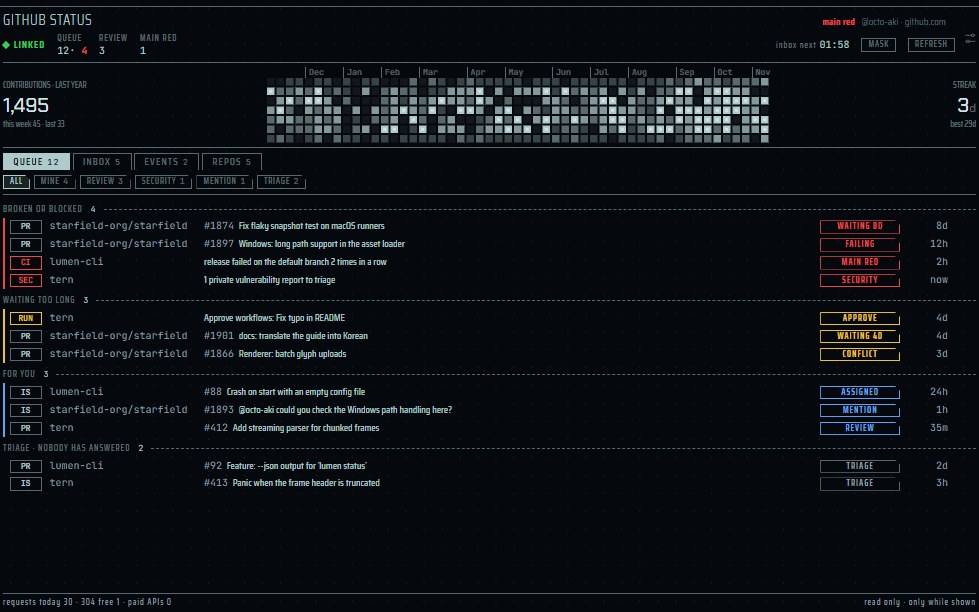
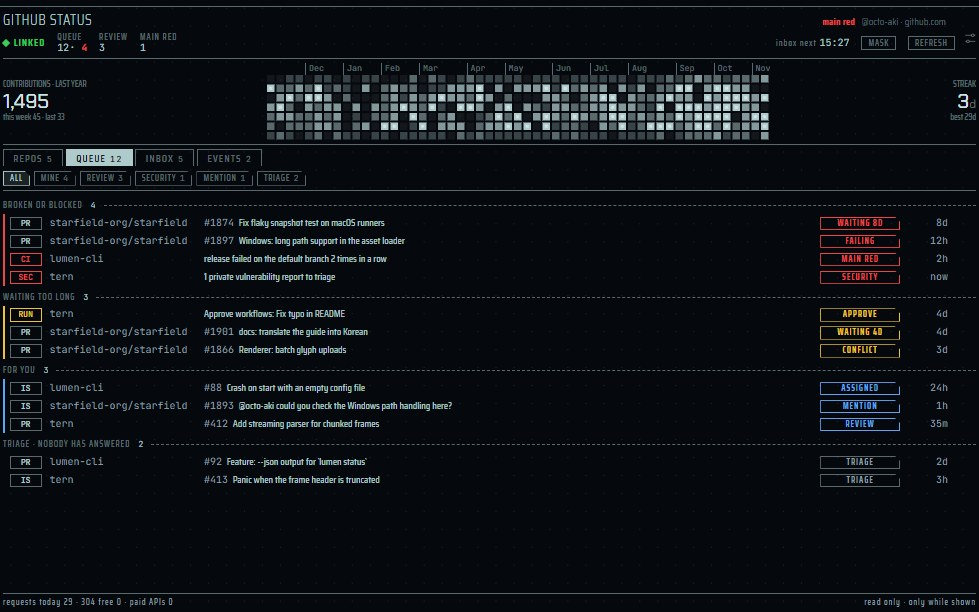
perf(cloud): a new AWS account reads in half the time, REFRESH blinks, and REPOS leads GITHUB STATUS / 新しい AWS アカウントの読み取りを半分の時間に、REFRESH を点滅させ、GITHUB STATUS の先頭を REPOS に
An AWS CLI call costs about 1.2 s here and a new account's first cycle is 253 calls: with two CLI lanes and one bulk lane, RESOURCES' figures took 33 s and the whole cycle six and a half minutes. Four lanes and three bulk ones, with the weekly sweep of other regions behind the counts, bring them to 8 s and about three minutes (measured on the stand-in with the latency scaled). REFRESH was disabled the moment it was pressed, which cut its blink to one beat: it now blinks three beats, then asks, in both panes. GITHUB STATUS shows REPOS as its first tab; QUEUE stays the one a pane opens on. / この PC で AWS CLI は 1 回約 1.2 秒、新しいアカウントの最初の 1 周は 253 回。CLI の枠 2 本・一括 1 本では、RESOURCES の数字まで 33 秒、1 周に 6 分半かかった。枠 4 本・一括 3 本にし、ほかのリージョンの週 1 回の見回りを件数のあとに回して、8 秒と約 3 分にした（遅れを縮めた代役で測定）。REFRESH は押した瞬間に disabled になり点滅が 1 拍で切れていたので、両方のペインで 3 拍点滅してから頼む。GITHUB STATUS は REPOS を先頭のタブにした。開くタブは QUEUE のまま。

diff --git a/src/renderer/widgets/github/GithubWidget.svelte b/src/renderer/widgets/github/GithubWidget.svelte
@@ -185,6 +185,14 @@ function copySignIn(button: HTMLElement): void {
 }
 
 let waitUntil = $state(0)
+/**
+ * REFRESH blinks its three beats as every choice does, then asks: the button is disabled for the
+ * wait main answers, which cut the held press's own blink to one beat.
+ */
+function pressRefresh(button: HTMLElement): void {
+  if (now < waitUntil) return
+  afterBlink(button, () => void refresh())
+}
 async function refresh(): Promise<void> {
   if (now < waitUntil) return
   sfx.play('panel')
@@ -361,7 +369,7 @@ const short = $derived(height < 30 * 16)
     <span class="spacer"></span>
     {#if !narrow && board?.nextInboxAt}<span class="when">inbox next <b>{clockText(board.nextInboxAt)}</b></span>{/if}
     <button type="button" class="tool" class:on={masked} aria-pressed={masked} onclick={() => patch({ mask: masked ? undefined : true })} data-testid="github-mask">MASK</button>
-    <button type="button" class="tool" disabled={now < waitUntil} onclick={() => void refresh()} data-testid="github-refresh">REFRESH</button>
+    <button type="button" class="tool" disabled={now < waitUntil} onclick={(e) => pressRefresh(e.currentTarget)} data-testid="github-refresh">REFRESH</button>
   </header>
 
   {#if board?.link === 'signed-out' && board.signIn !== null}
@@ -393,7 +401,8 @@ const short = $derived(height < 30 * 16)
     {/if}
 
     <div class="tabs" role="tablist" aria-label="github status">
-      {#each [['queue', 'QUEUE', board?.queue.length], ['inbox', 'INBOX', board?.inbox.readable ? board.inbox.items.filter((item) => item.unread).length : '—'], ['events', 'EVENTS', board?.events.length], ['repos', 'REPOS', board?.repos.length]] as [id, label, count] (id)}
+      <!-- REPOS first, at the left (the user's decision 2026-11-08); QUEUE stays the tab a new pane opens on. -->
+      {#each [['repos', 'REPOS', board?.repos.length], ['queue', 'QUEUE', board?.queue.length], ['inbox', 'INBOX', board?.inbox.readable ? board.inbox.items.filter((item) => item.unread).length : '—'], ['events', 'EVENTS', board?.events.length]] as [id, label, count] (id)}
         <button type="button" role="tab" aria-selected={choices.tab === id} onclick={() => selectTab(id as Tab)} data-testid="github-tab-{id}">{label}{#if count !== undefined}<em>{count}</em>{/if}</button>
       {/each}
     </div>

diff --git a/tests/unit/aws.test.ts b/tests/unit/aws.test.ts
@@ -9,9 +9,14 @@ import {
 import { memoryInventory } from '../../src/main/aws/inventory-store'
 import { AWS_PROBES, costExplorerDue, openPorts } from '../../src/main/aws/probes'
 import { ResourceAccounts } from '../../src/main/aws/resource-accounts'
-import { batches, GMD_MAX_CHARS, GMD_MAX_QUERIES } from '../../src/main/aws/resource-probes'
+import {
+  batches,
+  GMD_MAX_CHARS,
+  GMD_MAX_QUERIES,
+  sweepProbe,
+} from '../../src/main/aws/resource-probes'
 import { AwsService, BOARD_PROBES, type CloudAlert } from '../../src/main/aws/service'
-import { concurrencyLimit } from '../../src/main/cloud-cli/scheduler'
+import { BULK_LANES, CLI_LANES, concurrencyLimit } from '../../src/main/cloud-cli/scheduler'
 import { stubAws } from '../../src/main/cloud-cli/stub-aws'
 import { activeCost } from '../../src/shared/aws/active'
 import { attention } from '../../src/shared/aws/attention'
@@ -626,7 +631,7 @@ function service(mode = 'demo', initial: BillingFile = {}) {
     executable: () => 'stub',
     startedAt: Date.now(),
   })
-  // RESOURCES' first reading goes one bulk probe at a time: many turns of the microtask queue.
+  // RESOURCES' first reading goes a few bulk probes at a time: many turns of the microtask queue.
   const flush = async () => {
     for (let i = 0; i < 20_000; i++) await Promise.resolve()
   }
@@ -920,6 +925,16 @@ const metricsAsked = (calls: CliCall[]) =>
   )
 
 describe('RESOURCES on the stand-in AWS CLI (aws.md §14)', () => {
+  it('sweeps the regions the pane does not show behind every count, in the lanes sized for a new account', () => {
+    // Some 50 describes of other regions once ran among the counts and, with the bulk lane one
+    // wide, held the shown regions' lists up for a minute; the scheduler starts a judge only once
+    // every count was tried (its own test). Measured 2026-11-08: decisions.md.
+    expect(sweepProbe.bulk).toBe('judge')
+    expect(CLI_LANES).toBeGreaterThanOrEqual(4)
+    expect(BULK_LANES).toBeLessThan(CLI_LANES)
+    expect(BULK_LANES).toBeGreaterThan(1)
+  })
+
   it('reads what is there and what looks forgotten, sums it into ATTENTION, and counts GetMetricData by the metric', async () => {
     const s = service()
     s.aws.watch(KEY)

diff --git a/tests/component/github-widget.test.ts b/tests/component/github-widget.test.ts
@@ -51,6 +51,7 @@ let deliver: ((board: GithubBoard) => void) | null = null
 let subscribed: string[] = []
 const open = vi.fn(async (_key: string, _id: string) => true)
 const copy = vi.fn(async (_what: unknown) => true)
+const refresh = vi.fn(async (_key: string) => 30_000)
 let held: Record<string, unknown> = {}
 
 beforeEach(() => {
@@ -59,6 +60,7 @@ beforeEach(() => {
   held = {}
   open.mockClear()
   copy.mockClear()
+  refresh.mockClear()
   inertDom()
   finishAnimations()
   stubElecdex({
@@ -71,7 +73,7 @@ beforeEach(() => {
           deliver = null
         }
       },
-      refresh: async () => 30_000,
+      refresh: (key: string) => refresh(structuredClone(key)),
       detail: async () => null,
       open: (key: string, id: string) => open(structuredClone(key), structuredClone(id)),
       watching: async () => [],
@@ -136,6 +138,14 @@ describe('GithubWidget', () => {
   it('switches tabs through the pane state', async () => {
     await mount()
     await push(await boardOf('demo'))
+    // REPOS at the left (the user's decision); QUEUE is still the tab a pane opens on.
+    expect(screen.getAllByRole('tab').map((t) => t.dataset.testid)).toEqual([
+      'github-tab-repos',
+      'github-tab-queue',
+      'github-tab-inbox',
+      'github-tab-events',
+    ])
+    expect(screen.getByTestId('github-tab-queue').getAttribute('aria-selected')).toBe('true')
     await fireEvent.click(screen.getByTestId('github-tab-repos'))
     expect(held.tab).toBe('repos')
   })
@@ -166,6 +176,17 @@ describe('GithubWidget', () => {
     )
     expect(text).not.toContain('infra-notes')
     expect(text).toContain('tern')
+  })
+
+  it('blinks REFRESH three beats before it asks, as every other button does', async () => {
+    await mount()
+    await push(await boardOf('demo'))
+    const button = screen.getByTestId('github-refresh')
+    await fireEvent.click(button)
+    expect(button.classList.contains('blinking')).toBe(true)
+    expect(refresh).not.toHaveBeenCalled()
+    await vi.waitFor(() => expect(refresh).toHaveBeenCalledTimes(1))
+    expect(button.classList.contains('blinking')).toBe(false)
   })
 
   it('says the command to sign in with, and copies it', async () => {

diff --git a/tests/component/aws-widget.test.ts b/tests/component/aws-widget.test.ts
@@ -67,6 +67,7 @@ const keep = vi.fn(async (key: string, id: string, on: boolean) => service.keep(
 const sweep = vi.fn(async (_key: string, _what?: string) => 30_000)
 const metricData = vi.fn(async (_key: string, _answer: unknown) => true)
 const copy = vi.fn(async (_what: { kind: string; text: string }) => true)
+const refresh = vi.fn(async (_key: string) => 30_000)
 let held: Record<string, unknown> = {}
 
 beforeEach(() => {
@@ -78,6 +79,7 @@ beforeEach(() => {
   sweep.mockClear()
   metricData.mockClear()
   copy.mockClear()
+  refresh.mockClear()
   inertDom()
   finishAnimations()
   stubElecdex({
@@ -90,7 +92,7 @@ beforeEach(() => {
           deliver = null
         }
       },
-      refresh: async () => 30_000,
+      refresh: (key: string) => refresh(structuredClone(key)),
       drill: async (key: string, which: string) => service.drill(key, which),
       item: async (key: string, which: string, id: string) => service.item(key, which, id),
       history: async () => [],
@@ -218,6 +220,17 @@ describe('AwsWidget', () => {
     const text = screen.getByTestId('aws-view-account').textContent ?? ''
     expect(text).not.toContain('482913507216')
     expect(text).not.toContain('acme-prod')
+  })
+
+  it('blinks REFRESH three beats before it asks, as every other button does', async () => {
+    await mount()
+    await push(await boardOf())
+    const button = screen.getByTestId('aws-refresh')
+    await fireEvent.click(button)
+    expect(button.classList.contains('blinking')).toBe(true)
+    expect(refresh).not.toHaveBeenCalled()
+    await vi.waitFor(() => expect(refresh).toHaveBeenCalledTimes(1))
+    expect(button.classList.contains('blinking')).toBe(false)
   })
 
   it('says the command to sign in with', async () => {

diff --git a/src/main/aws/service.ts b/src/main/aws/service.ts
@@ -41,7 +41,7 @@ import { type CliPriority, MINUTE, type Probe, type RunCli } from '@shared/cloud
 import { incidentsFor, type StatusIncident } from '@shared/cloud-cli/status'
 import type { TimerDeps } from '../boundary-timer.js'
 import { evictStopped, gapLeft, REFRESH_GAP_MS } from '../cloud-cli/boards.js'
-import { concurrencyLimit, ProbeScheduler } from '../cloud-cli/scheduler.js'
+import { BULK_LANES, concurrencyLimit, ProbeScheduler } from '../cloud-cli/scheduler.js'
 import {
   type AccountBilling,
   asksNow,
@@ -127,8 +127,12 @@ export class AwsService {
   /** The accounts whose Cost Explorer reading is under way. */
   readonly #ceReading = new Set<string>()
   readonly #resources: ResourceAccounts
-  /** RESOURCES' bulk readings, one at a time across every board (aws.md §14.4). */
-  readonly #bulk = concurrencyLimit(1)
+  /**
+   * RESOURCES' bulk readings, three at a time across every board (aws.md §14.4), inside the
+   * shared CLI lanes: with one, a new account took about four minutes to count its services
+   * (decisions.md, measured 2026-11-08).
+   */
+  readonly #bulk = concurrencyLimit(BULK_LANES)
   /**
    * The accounts a shared reading was kept for since a probe last settled: the boards of the
    * account are shown again once, when it settles, not at every region's answer.

diff --git a/src/renderer/widgets/aws/AwsWidget.svelte b/src/renderer/widgets/aws/AwsWidget.svelte
@@ -254,6 +254,14 @@ function copyText(button: HTMLElement, which: 'signin' | 'policy', text: string)
 }
 
 let waitUntil = $state(0)
+/**
+ * REFRESH blinks its three beats as every choice does, then asks: the button is disabled for the
+ * wait main answers, which cut the held press's own blink to one beat.
+ */
+function pressRefresh(button: HTMLElement): void {
+  if (now < waitUntil) return
+  afterBlink(button, () => void refresh())
+}
 async function refresh(): Promise<void> {
   if (now < waitUntil) return
   sfx.play('panel')
@@ -511,7 +519,7 @@ const TABS: readonly [AwsTab, string][] = [
     {/if}
     <span class="spacer"></span>
     <button type="button" class="tool" class:on={masked} aria-pressed={masked} onclick={() => patch({ mask: masked ? undefined : true })} data-testid="aws-mask">MASK</button>
-    <button type="button" class="tool" disabled={now < waitUntil} onclick={() => void refresh()} data-testid="aws-refresh">REFRESH</button>
+    <button type="button" class="tool" disabled={now < waitUntil} onclick={(e) => pressRefresh(e.currentTarget)} data-testid="aws-refresh">REFRESH</button>
   </header>
 
   {#if board?.link === 'signed-out' && board.signIn !== null}

diff --git a/src/main/cloud-cli/scheduler.ts b/src/main/cloud-cli/scheduler.ts
@@ -43,7 +43,7 @@ export interface SchedulerDeps<C> extends TimerDeps {
   /** The queue a probe without `first` waits in: AWS's are `later`, GitHub's all `first`. */
   priority?: CliPriority
   /**
-   * One bulk reading at a time, shared by every board (aws.md §14.4): a `count` reading goes
+   * Bulk readings in their own lane, shared by every board (aws.md §14.4): a `count` reading goes
    * ahead of a `judge` one. Without it, bulk readings run as any other.
    */
   bulk?: <T>(work: () => Promise<T>, priority?: CliPriority) => Promise<T>
@@ -361,6 +361,15 @@ function settled(
     triedAt: now,
   }
 }
+
+/**
+ * How many CLI starts run at once across both panes, and how many of them RESOURCES' bulk
+ * readings may hold. An AWS CLI call costs about 1.2 s on Windows (0.5 s of it starting Python),
+ * and a new account's first cycle is some 250 calls: 2 and 1 took about six and a half minutes,
+ * 4 and 3 under three, with the figures in 8 s instead of 33 (decisions.md, 2026-11-08).
+ */
+export const CLI_LANES = 4
+export const BULK_LANES = 3
 
 /**
  * A limit on how many CLI starts run at once, shared by every board. A `first` call waiting

diff --git a/src/main/ipc/cloud.ts b/src/main/ipc/cloud.ts
@@ -8,7 +8,7 @@ import type { CloudAlert } from '../aws/service.js'
 import { USER_AGENT } from '../build-info.js'
 import { AlertFileSchema, CloudAlerts } from '../cloud-cli/alerts.js'
 import { createCliRunner } from '../cloud-cli/run.js'
-import { concurrencyLimit } from '../cloud-cli/scheduler.js'
+import { CLI_LANES, concurrencyLimit } from '../cloud-cli/scheduler.js'
 import { type StatusSource, StatusWatch } from '../cloud-cli/status.js'
 import { stubAws } from '../cloud-cli/stub-aws.js'
 import { stubGithub } from '../cloud-cli/stub-github.js'
@@ -97,7 +97,7 @@ export function registerCloudIpc(settings: SettingsHandle): { dispose: () => voi
   const shared: CloudShared = {
     cli,
     executable: (tool) => (stubbed ? 'stub' : runner.executable(tool)),
-    limit: concurrencyLimit(2),
+    limit: concurrencyLimit(CLI_LANES),
     status: undefined as unknown as StatusWatch,
     alerts,
     shown: (source, shown) => shared.status.set(source, shown),

diff --git a/src/main/aws/resource-probes.ts b/src/main/aws/resource-probes.ts
@@ -1510,7 +1510,9 @@ export const sweepProbe: Probe<AwsContext, PerRegion<SweepRegion>> = {
   every: WEEK,
   cost: 'free',
   after: 'res-regions',
-  bulk: 'count',
+  // Behind every count: some 50 describes of regions the pane does not show once held up the
+  // shown regions' own lists for a minute on a new account.
+  bulk: 'judge',
   run: async (ctx, cli, previous) => {
     const store = ctx.shared()
     if (store === null) return previous ?? {}
@@ -1960,7 +1962,7 @@ const lastUseProbe = shared({
   read: readStatistics,
 })
 
-/** RESOURCES' probes: the lists first (one at a time, `bulk`), then the judgement. */
+/** RESOURCES' probes: the lists first (`bulk` count), then the judgement and the sweep. */
 export const RESOURCE_PROBES: readonly Probe<AwsContext, unknown>[] = [
   regionsProbe,
   bucketListProbe,

diff --git a/docs/decisions.md b/docs/decisions.md
@@ -537,3 +537,4 @@
 | AWS STATUS の RESOURCES と GITHUB STATUS のレビュー（Opus 5.5、2026-11-08） | 指摘を確かめて直した: `Could not connect to the endpoint URL`（bedrock・aoss…）は、同じボードの同じリージョンの別の呼び出しが直前に AWS に届いていて（アラームの周期の 2 倍以内）、その後にネットワークの失敗が無いときだけ not offered とし、そうでなければオフラインとして何も残さない（main/aws/region-reach.ts）。REFRESH は有料（GetMetricData）と metered-tiny（ListBuckets）を読み直さない。GMD CAP REACHED は上限を上げたときだけ解く。「付いていない日」は、その種類がそのリージョンで読み直され付いたときだけ消す。S3 の「なくなった」はアカウントのバケット一覧そのもので決める。list-metrics に最後に出た日は list-metrics を読んだ時刻で刻む。ほかのリージョンの読み取り（ELSEWHERE、Bedrock の使用）は、有効なリージョンで、SLOW の周期の 2 倍以内のものだけ使う。KEEP を解いた行の「shown again」は 1 回の配信で消えていたので、欄ごとやめた。共有の読み取りの配信は probe が終わったときに 1 度にまとめ、main の記憶もそのときに 1 度だけ更新する。押して画面が替わったとき（GitHub のリポジトリ、AWS のタイルや行）は詳細カードを閉じる（取り除かれた要素は pointerleave を送らない） | 2 枚のペイン、再起動、オフラインで記憶と aws-inventory.json が壊れ、REFRESH で有料の呼び出しが増え、ビルドのたびに記憶が変わって 2 秒ごとにファイルを書いていた。どれもテストで再現してから直した |
 | AWS STATUS の RESOURCES、CARDS（2026-11-08） | 利用者の提案「タイルの状態の線がビジー。GITHUB STATUS のように、サービスごとに 使用中 / 総数 をカードで。今の表示と切り替えられるようにし、既定をカードに」を、Fable 5.1 の UX/UI レビュー（aws.md §14.12 の 13 件）を入れて作った。サービスの見出し `SERVICES n` の右に `CARDS · DETAIL`、既定は CARDS で、DETAIL を選んだときだけペインの状態に `resView: 'detail'` を持つ。DETAIL は今のタイルのまま。数は main の純粋な `shared/aws/in-use.ts`（`serviceUse`、`ResourceTile.use`）が、見ているリージョンの行だけを LOOKS FORGOTTEN の行と鍵で突き合わせて数え、`総数 − 使用中 = forgotten + stopped + quiet + kept` が全タイルで成り立つ（代役の demo・partial・quiet・noregion と境界の例で単体テスト）。KEEP したものは忘れものから外れるが「使用中」の語（`volumes attached` など）にも当たらないので、§14.12 の 3 つに `kept` を足した。stopped は種類ごとの状態（EC2 の running 以外、RDS の available 以外、ECS の desired 0、NAT・VPC エンドポイント・TGW・VPN・ElastiCache・Redshift のクラスタの available 以外、SageMaker の InService 以外、Kinesis の ACTIVE・UPDATING 以外、Transfer の ONLINE 以外、CloudFront の無効、KMS の Disabled と PendingDeletion、Bedrock の PT の InService 以外）で、判定に当たらなかったものだけ。カードは群の固定の順、13 rem 以上の auto-fill、狭いペインは 2 列。代役のボリュームの id が東京の 5 台で同じになっていて、EBS の一覧が同じ鍵で落ちたので直した | 利用者の提案と Fable 5.1 のレビュー（aws.md §14.12）。ELSEWHERE を数えないのは、モックで `EBS 18 / 19` に `2 forgotten?` と出て引き算が合わなかったため。DETAIL のタイルの下の行は今のまま（ELSEWHERE の忘れものも数える） |
 | AWS STATUS と GITHUB STATUS の COPY、拒まれたサービスのカード（2026-11-08、利用者の報告） | COPY（サインインのコマンド、PARTIAL の COPY POLICY、GitHub のサインイン）は押しても点滅せず、すぐ COPIED に替わっていた。ほかの選択と同じく `afterBlink` の 3 拍の点滅のあとでコピーし、2 つのペインとも `CopyFlag` で COPIED を戻す（GitHub の自前の `setTimeout` をやめた）。RESOURCES の CARDS は、拒まれて何も読めていないサービスを `?` のカードにしていたが、十数枚並んでアカウントのものを埋めたので、DETAIL にタイルが無いのと同じくカードを出さず、Denied の行だけに名前を出す（利用者の決定） | 利用者の報告と決定 |
+| AWS STATUS の最初の表示の速さ、REFRESH の点滅、GITHUB STATUS のタブの順（2026-11-08、利用者の報告と決定） | **速さ**: この PC で AWS CLI の 1 回は約 1.2 秒（起動だけで 0.5 秒）。代役に 1 回 12 ms の遅れを入れて新しいアカウントの最初の 1 周を測ると 253 回で、CLI の枠 2 本・一括 1 本では、RESOURCES の数字まで約 33 秒、全サービスの件数まで約 230 秒、判定まで約 356 秒、全体で約 6 分半。ELSEWHERE の週 1 回の見回り（ほかのリージョンの describe 約 50 回）が件数の間に入っていた。枠を 4 本（`CLI_LANES`）、一括を 3 本（`BULK_LANES`）にし、見回りを判定の段（件数のあと）に回して、数字まで約 8 秒、件数まで約 85 秒、判定まで約 115 秒、全体で約 3 分。2 回目の起動（aws-inventory.json に読み取りがある）は 66 回で、ACTIVE の一覧を除いて約 3 秒で出る。6 本にしても数秒しか縮まず、Python の起動が並ぶ CPU を考えて 4 本にした。**REFRESH**: 押すと main が答える待ちの間ボタンが disabled になり、押下の点滅が 1 拍で切れていた。ほかの選択と同じく `afterBlink` の 3 拍のあとで頼む（両方のペイン）。MASK はアプリ全体のトグルと同じく押下の点滅だけのまま。**タブ**: GITHUB STATUS は REPOS を一番左に（利用者の決定）。新しいペインが開くタブは QUEUE のまま | 測定と利用者の報告・決定 |

diff --git a/docs/aws.md b/docs/aws.md
@@ -704,7 +704,7 @@ D と E を数だけに、short（30 rem 未満）は A と B だけ。
 - **1 日・6 時間の読み取りはアカウントごと**に main が持ち、`aws-inventory.json` に残す（Cost Explorer の取り分けと
   同じ形）。リージョンの違うペインが 2 枚でも、再起動しても、やり直さない
 - **CLI の枠の優先度**: 枠（2 本、両ペインで共有）に 2 段の優先度を付け、alarms・identity・health・trail と GITHUB
-  STATUS を先に通す。RESOURCES の一括の読み取りは同時 1 本まで。最初の 1 周は件数の list / describe を先、判定の
+  STATUS を先に通す。RESOURCES の一括の読み取りは同時 3 本まで（`BULK_LANES`、2026-11-08 に 1 本から。ELSEWHERE の見回りは件数のあと、判定と同じ段）。最初の 1 周は件数の list / describe を先、判定の
   メトリクスを後にし、B は判定が揃うまで `judging… (within 10 min)` と出す
 - **提供されていないリージョン**: bedrock・bedrock-agent・bedrock-agentcore-control・opensearchserverless は提供の
   無いリージョンがある。そこでの `Could not connect to the endpoint URL` を OFFLINE に数えない（errors.ts の
@@ -733,7 +733,7 @@ D と E を数だけに、short（30 rem 未満）は A と B だけ。
 | sweep G | 見ていないリージョンごとに `ec2 describe-instances`（running の数と型）・`describe-volumes`・`describe-nat-gateways`・`describe-addresses`（4 種） | **週 1 回**（と手動）。SCP で拒否されたリージョンは黙って飛ばす | 無料 | 13 リージョン × 4 = 52 |
 
 - **回数と時間**（実測の 1 回 1.5〜3.5 秒、CPU 約 0.6 秒、decisions.md）: 1 リージョンの最初の 1 周は、今の約 36 回に
-  約 40〜60 回（テーブル・キューの数による）。4 リージョンで約 200 回、同時 1 本で **10 分前後**かけて読む（CPU は
+  約 40〜60 回（テーブル・キューの数による）。4 リージョンで約 200 回、同時 1 本で **10 分前後**かけて読む（実装の後の測定: 2 リージョンで 253 回、1 回 1.2 秒、CLI 2 本・一括 1 本で約 6 分半、4 本・3 本で約 3 分、decisions.md 2026-11-08）（CPU は
   2 分程度）。2 周目からは、1 時間あたり今の約 1.3 倍、1 日の読み取りは約 80 回。実装の後に実物で測り decisions.md に
   書く。SLOW（×4）はこれにも効く
 - **CloudWatch の無料枠**: quiet・bedrockuse・lastuse で 1 日 約 150 回（4 リージョン）＝月 約 5,000 回。今の分と

diff --git a/docs/guide/panes-cloud.ja.md b/docs/guide/panes-cloud.ja.md
@@ -174,10 +174,10 @@ AWS 管理ポリシーの `ReadOnlyAccess`（または `ViewOnlyAccess` と `AWS
 
 | タブ | 見せるもの |
 | --- | --- |
+| **REPOS** | リポジトリごとのタイル: スターとその 7 日の増減、フォーク、Issue、PR、警告、既定ブランチの直近の実行、最新のリリース（プレリリースを含む）とそれ以後のコミット数、push 権のあるものは 14 日の訪問。タイルから、その実行、開いた PR、リリースへ掘れます |
 | **QUEUE** | 自分を待っているものを、1 つにつき 1 行、重い順に: 赤い既定ブランチ、非公開の脆弱性報告、失敗・衝突・変更依頼のある自分の PR、承認待ちのワークフローの実行、レビュー依頼（3 日で warn、7 日で danger）、メンション、アサイン、そして TRIAGE（自分のリポジトリで誰も答えていない Issue）。絞り込みは ALL、MINE、REVIEW、SECURITY、MENTION、TRIAGE |
 | **INBOX** | 生の通知。ペインは何も既読にしません。fine-grained のトークンでは通知を読めず、タブがそう書きます |
 | **EVENTS** | 見張るリポジトリの直近 24 時間を、リポジトリと種類（スター、フォーク、Issue、PR、リリース、プッシュ）で畳んで |
-| **REPOS** | リポジトリごとのタイル: スターとその 7 日の増減、フォーク、Issue、PR、警告、既定ブランチの直近の実行、最新のリリース（プレリリースを含む）とそれ以後のコミット数、push 権のあるものは 14 日の訪問。タイルから、その実行、開いた PR、リリースへ掘れます |
 
 - **スターの 7 日の増減**は、GitHub が日ごとの数を持たないため、elecdex 自身の日ごとの記録から出します。公開リポジトリだけを `github-stars.json` に 90 日分。
 - **見張るリポジトリ**: AUTO（自分のリポジトリのうちフォークでもアーカイブでもないものを、スターの多い順に 8 つ）か PINNED（`owner/name` の一覧、12 まで、組織のものも可）。
